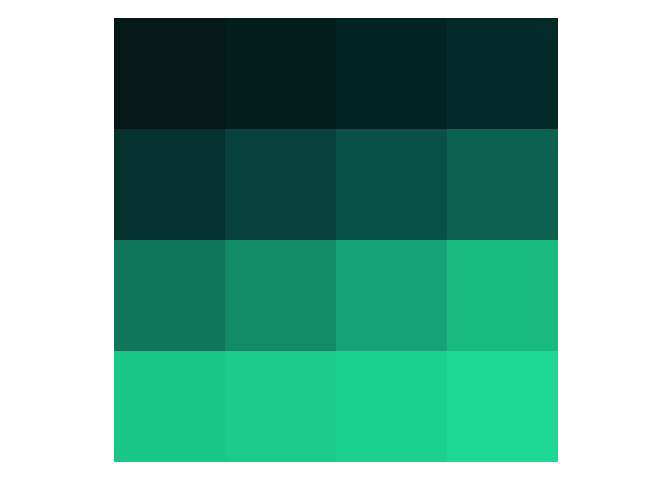
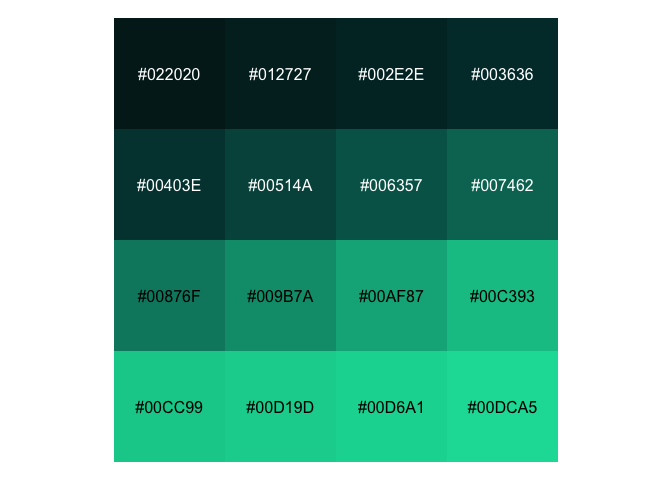
Added hex codes to README palette function

diff --git a/README.md b/README.md
@@ -29,7 +29,7 @@ library(scales)
 
 exe_pal <- gguniversity::exeter_palette(16)
 
-scales::show_col(exe_pal, ncol = 4, border=NA, labels=F)
+scales::show_col(exe_pal, ncol = 4, border=NA)
 ```
 
 ![](README_files/figure-gfm/unnamed-chunk-2-1.png)<!-- -->
